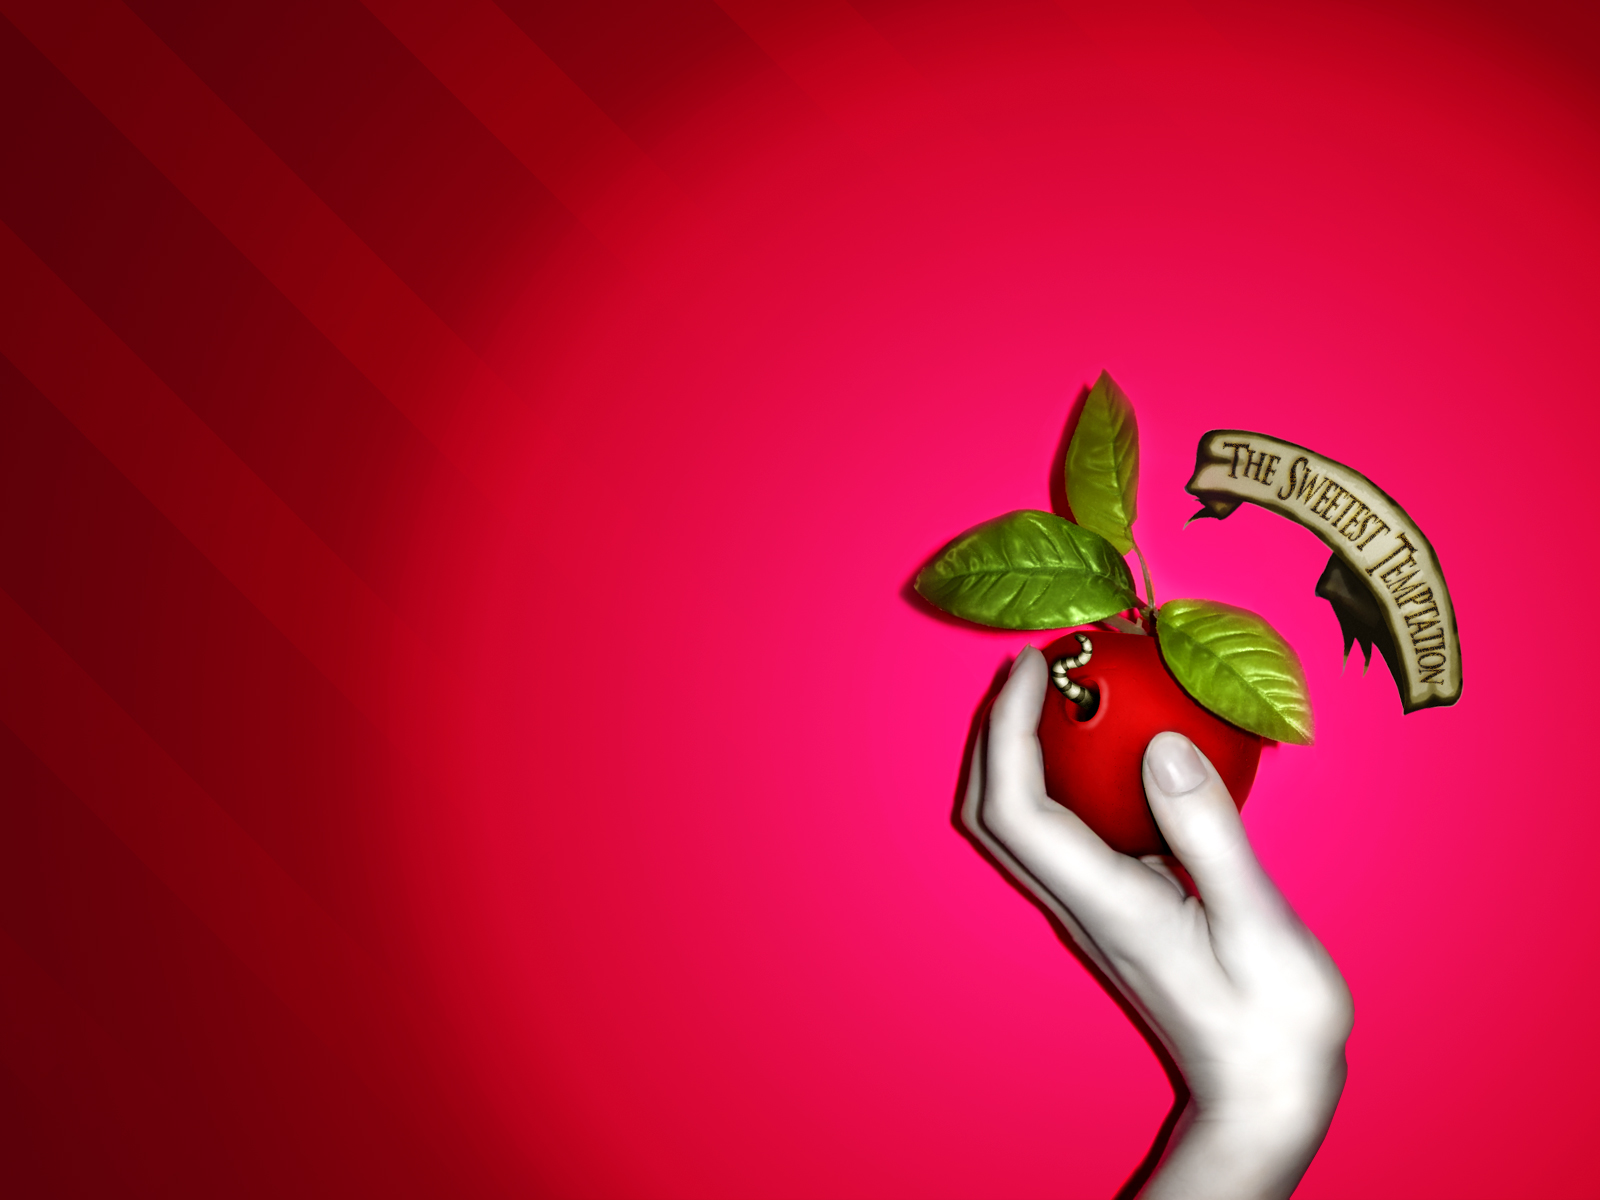
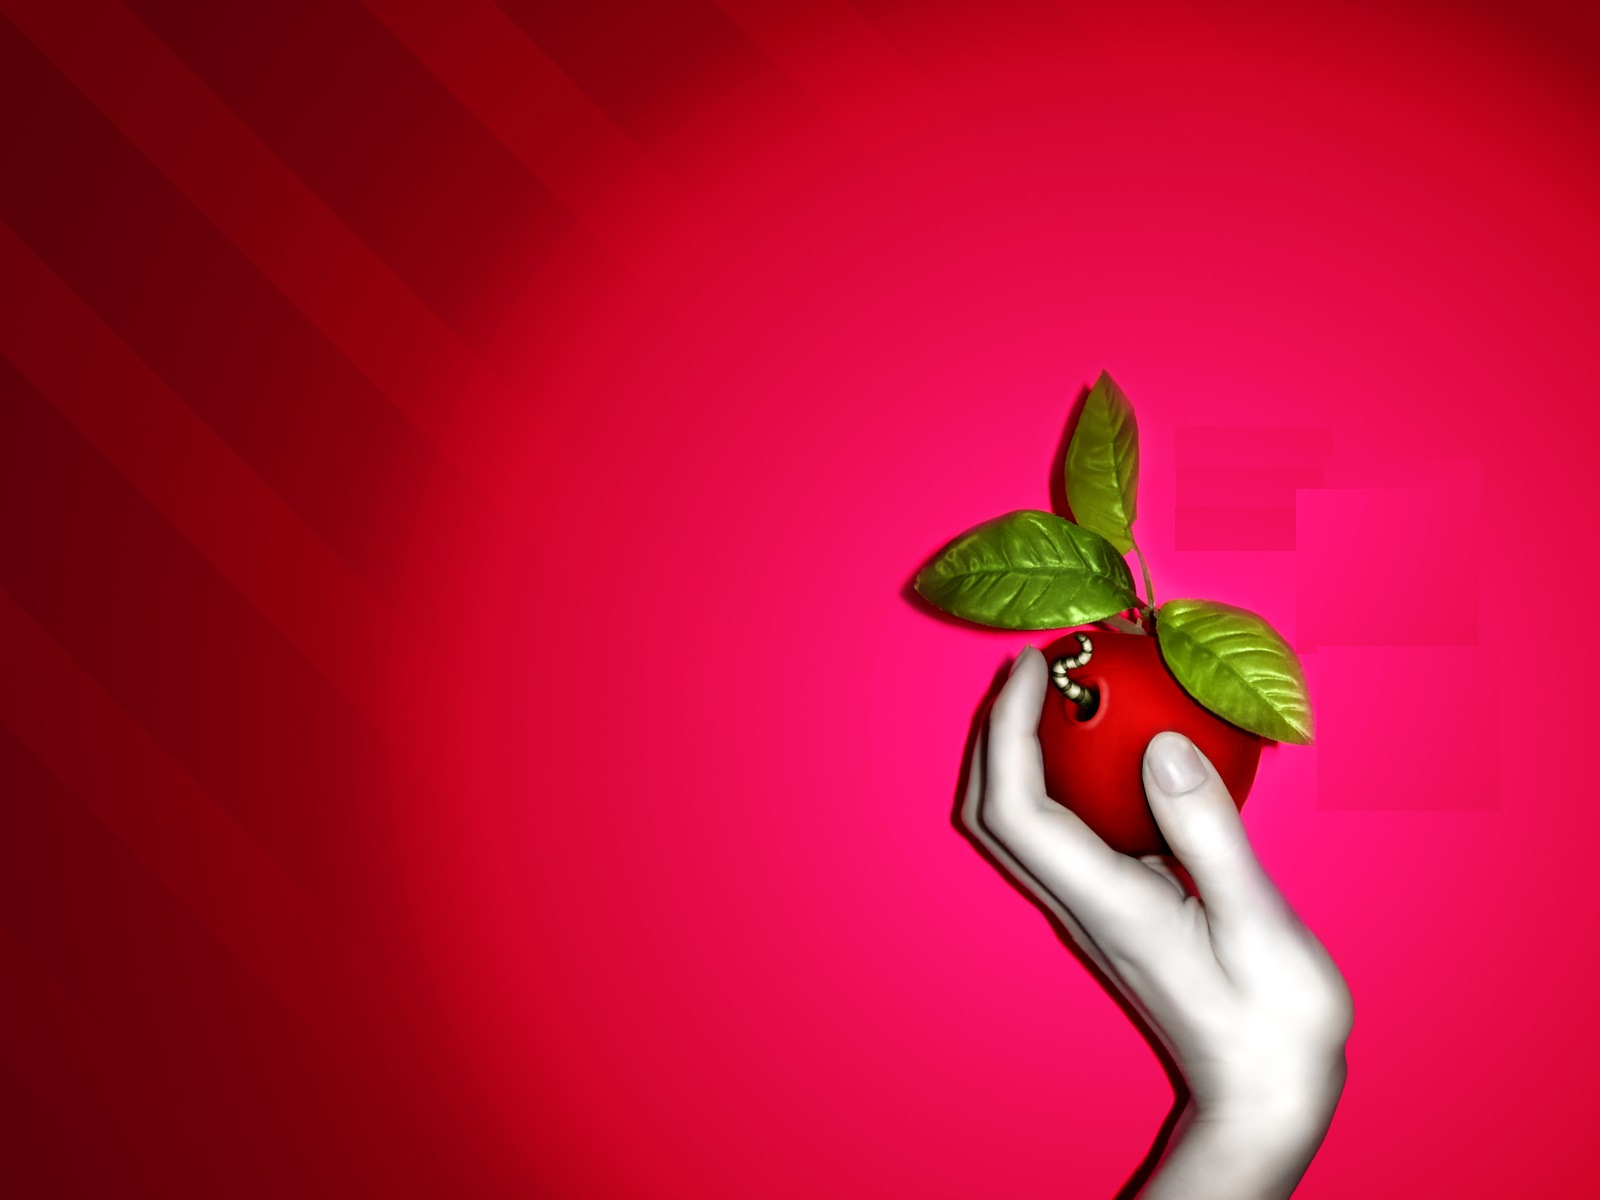
Mejoras pagina de Eleccion

Changed region(s): [[0.7188, 0.3392, 0.9375, 0.6167]]

diff --git a/src/main/resources/static/Opcionjuego.html b/src/main/resources/static/Opcionjuego.html
@@ -22,14 +22,13 @@ and open the template in the editor.
 
     <body id="cuerpoIndex">
           <header >
-              <h1 id="titulo" >FLEEING FROM ROTTEN APPLES</h1>
+              <h1 id="titulo" >Bienvenido</h1>
 	</header>
-        
-         <img id="logo11"  alt="" src="/imagenes/fondo4.jpg"/>
+         <img id="logo11"  alt="" src="/imagenes/fondo8.jpg"/>
                
         <div id="seccionIndex">  
                 <div id="cuerpo1">
-                    <h1 id="tituloIndex">Selecciona una Opción</h1>
+<!--                    <h1 id="tituloIndex">Selecciona una Opción</h1>-->
                      
                         <legend id="texto2">
                         <span id="seleccionAvatar"></span>

diff --git a/src/main/resources/static/styles.css b/src/main/resources/static/styles.css
@@ -22,7 +22,7 @@
     font-size: 50px;
     font-family: Impact;
     /* background: lightblue; */
-    border-radius: 15px;
+    border-radius: -8px;
 }
 #seccionIndex{
     /*background-color: #ededf0;*/
@@ -42,18 +42,18 @@
 
     
     left:-8em;
-    top: -20em;
+    top: -24em;
 }
 #cuerpo1{
     text-align: center;
     margin: 2px auto;
     border-radius: 15px;
-    background:firebrick;
+    background:green;
     position: relative;
   
   
-    top: -17em;
-    left: -8em;
+    top: -9em;
+     left: -8em;
 
 }
 #tituloIndex{
